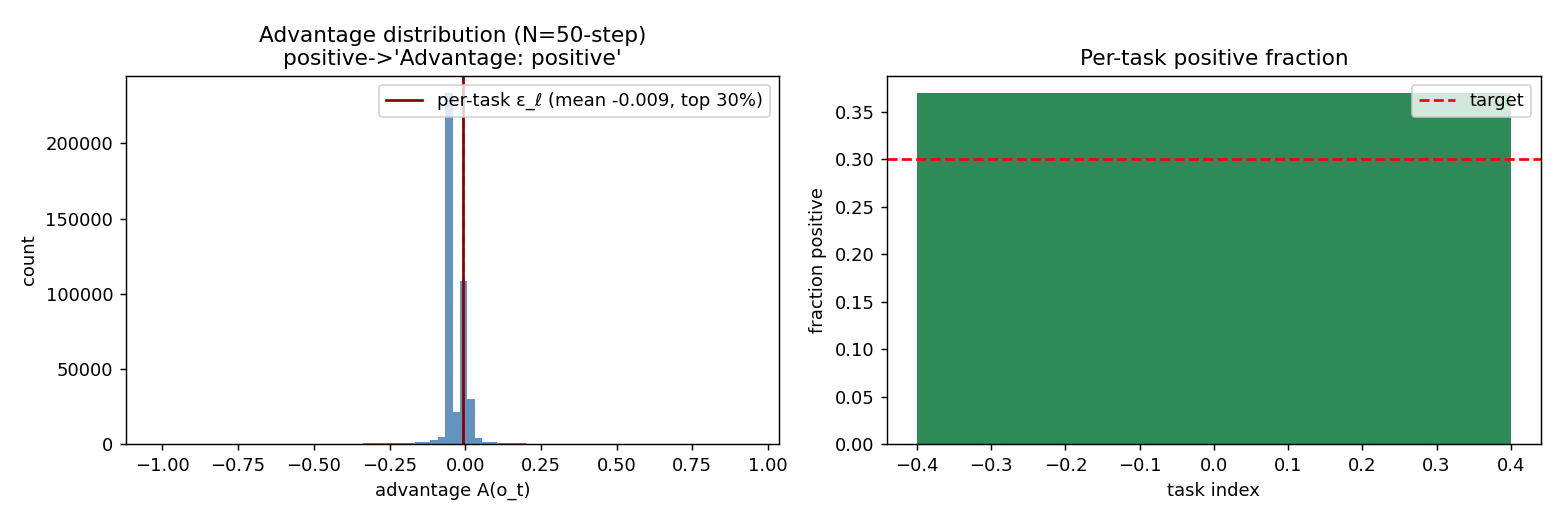
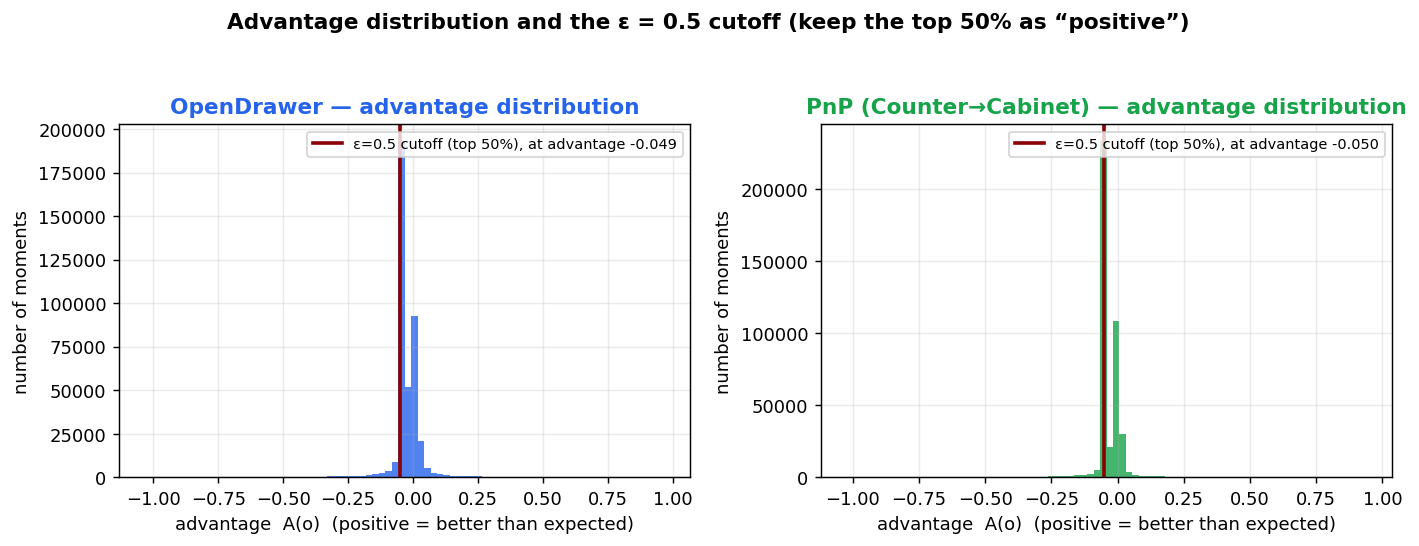
Add clickable HuggingFace links for base model + RoboCasa datasets used
- Link lerobot/pi05_base (base π0.5), pepijn223/robocasa_{OpenDrawer,PnP} demo
  datasets, and our dongjin630 checkpoints in tutorial.ipynb (§2, §6, §14) and README.

diff --git a/README.md b/README.md
@@ -119,12 +119,11 @@ ROLLOUTS=<comma_list> TASK=OpenDrawer BASE=<π_pre> EXPERT=full \
 #  (d) closed-loop eval (n=50, held-out seed)
 SEED=5000 sbatch slurm/eval_robocasa.sbatch <out_dir> positive OpenDrawer 50 10
 
-# Figures + showcase videos
-python build_notebook.py                              # regenerates the ε=0.5 curve + diagrams + notebook
-sbatch slurm/record_showcase.sbatch <ckpt> OpenDrawer positive <out> 10   # labeled rollout clips
+# Showcase videos (labeled rollout clips)
+sbatch slurm/record_showcase.sbatch <ckpt> OpenDrawer positive <out> 10
 ```
 
-The full K=3 × 4-task sweep + ε-sweep were run with an idempotent, preemption-safe orchestrator
+The full K=3 per-task sweep + ε-sweep were run with an idempotent, preemption-safe orchestrator
 (`slurm/vlmvf_manage.sh` + `vlmvf_watcher.sbatch`): output-driven submission across own/extra/share
 QOS, with resume (extract shards, RECAP checkpoints) and auto-resubmit on preemption.
 
@@ -199,9 +198,19 @@ docs/assets/        figures + rollout videos embedded by tutorial.ipynb
 tutorial.ipynb      the report (paper walkthrough + method + results + research question)
 ```
 
+## Models & data (HuggingFace Hub)
+- **Base model (π0.5):** [`lerobot/pi05_base`](https://huggingface.co/lerobot/pi05_base)
+- **RoboCasa demo datasets:** [`pepijn223/robocasa_OpenDrawer`](https://huggingface.co/datasets/pepijn223/robocasa_OpenDrawer),
+  [`pepijn223/robocasa_PickPlaceCounterToCabinet`](https://huggingface.co/datasets/pepijn223/robocasa_PickPlaceCounterToCabinet)
+- **Our checkpoints:** [`dongjin630`](https://huggingface.co/dongjin630) —
+  [`-OpenDrawer-vlmvf`](https://huggingface.co/dongjin630/recap-robocasa-OpenDrawer-vlmvf) /
+  [`-PnPCounterToCab-vlmvf`](https://huggingface.co/dongjin630/recap-robocasa-PnPCounterToCab-vlmvf)
+  (RECAP, ε=0.5) plus the matching `-sft` baselines
+
 ## License / credits
 Educational reimplementation. Built on [LeRobot](https://github.com/huggingface/lerobot)
-(Apache-2.0), [RoboCasa](https://robocasa.ai), and datasets by `pepijn223`.
+(Apache-2.0), [RoboCasa](https://robocasa.ai), and datasets by
+[`pepijn223`](https://huggingface.co/pepijn223).
 π\*0.6 / RECAP is by Physical Intelligence (arXiv:2511.14759).
 
 ## 5. Evaluating the published checkpoints (HF Hub)